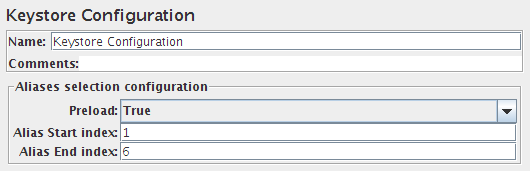
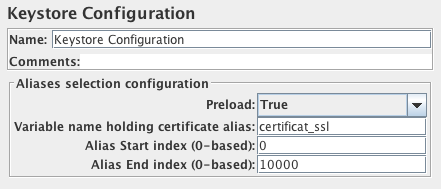
Bug 54977 - Ability to choose the client alias for the cert key in JsseSslManager such that Mutual SSL auth testing can be made more flexible Bugzilla Id: 54977
git-svn-id: https://svn.apache.org/repos/asf/jmeter/trunk@1552423 13f79535-47bb-0310-9956-ffa450edef68

Changed region(s): [[0.0, 0.0292, 1.0, 0.9649]]

diff --git a/src/core/org/apache/jmeter/util/keystore/JmeterKeyStore.java b/src/core/org/apache/jmeter/util/keystore/JmeterKeyStore.java
@@ -26,7 +26,11 @@ import java.security.cert.Certificate;
 import java.security.cert.X509Certificate;
 import java.util.ArrayList;
 import java.util.Enumeration;
+import java.util.HashMap;
+import java.util.Map;
 
+import org.apache.commons.lang3.StringUtils;
+import org.apache.jmeter.threads.JMeterContextService;
 import org.apache.jorphan.logging.LoggingManager;
 import org.apache.log.Logger;
 
@@ -41,21 +45,24 @@ public final class JmeterKeyStore {
     private final KeyStore store;
     private final int startIndex;
     private final int endIndex;
+    private String clientCertAliasVarName;
 
-    private X509Certificate[][] certChains;
-    private PrivateKey[] keys;
     private String[] names = new String[0]; // default empty array to prevent NPEs
+    private Map<String, PrivateKey> privateKeyByAlias = new HashMap<String, PrivateKey>();
+    private Map<String, X509Certificate[]> certsByAlias = new HashMap<String, X509Certificate[]>();
 
     //@GuardedBy("this")
     private int last_user;
 
-    private JmeterKeyStore(String type, int startIndex, int endIndex) throws Exception {
+
+    private JmeterKeyStore(String type, int startIndex, int endIndex, String clientCertAliasVarName) throws Exception {
         if (startIndex < 0 || endIndex < 0 || endIndex < startIndex) {
             throw new IllegalArgumentException("Invalid index(es). Start="+startIndex+", end="+endIndex);
         }
         this.store = KeyStore.getInstance(type);
         this.startIndex = startIndex;
         this.endIndex = endIndex;
+        this.clientCertAliasVarName = clientCertAliasVarName;
     }
 
     /**
@@ -66,9 +73,9 @@ public final class JmeterKeyStore {
         store.load(is, pw);
     
         ArrayList<String> v_names = new ArrayList<String>();
-        ArrayList<PrivateKey> v_keys = new ArrayList<PrivateKey>();
-        ArrayList<X509Certificate[]> v_certChains = new ArrayList<X509Certificate[]>();
-    
+        this.privateKeyByAlias = new HashMap<String, PrivateKey>();
+        this.certsByAlias = new HashMap<String, X509Certificate[]>();
+
         if (null != is){ // No point checking an empty keystore
             PrivateKey _key = null;
             int index = 0;
@@ -86,12 +93,13 @@ public final class JmeterKeyStore {
                             throw new Exception("No certificate chain found for alias: " + alias);
                         }
                         v_names.add(alias);
-                        v_keys.add(_key);
                         X509Certificate[] x509certs = new X509Certificate[chain.length];
                         for (int i = 0; i < x509certs.length; i++) {
                             x509certs[i] = (X509Certificate)chain[i];
                         }
-                        v_certChains.add(x509certs);
+
+                        privateKeyByAlias.put(alias, _key);
+                        certsByAlias.put(alias, x509certs);
                     }
                     index++;
                 }
@@ -101,23 +109,15 @@ public final class JmeterKeyStore {
                 throw new Exception("No key(s) found");
             }
             if (index <= endIndex-startIndex) {
-                LOG.warn("Did not find all requested aliases. Start="+startIndex+", end="+endIndex+", found="+v_certChains.size());
+                LOG.warn("Did not find all requested aliases. Start="+startIndex
+                        +", end="+endIndex+", found="+certsByAlias.size());
             }
         }
     
         /*
          * Note: if is == null, the arrays will be empty
          */
-        int v_size = v_names.size();
-    
-        this.names = new String[v_size];
-        this.names = v_names.toArray(names);
-    
-        this.keys = new PrivateKey[v_size];
-        this.keys = v_keys.toArray(keys);
-    
-        this.certChains = new X509Certificate[v_size][];
-        this.certChains = v_certChains.toArray(certChains);
+        this.names = v_names.toArray(new String[v_names.size()]);
     }
 
 
@@ -125,12 +125,12 @@ public final class JmeterKeyStore {
      * Get the ordered certificate chain for a specific alias.
      */
     public X509Certificate[] getCertificateChain(String alias) {
-        int entry = findAlias(alias);
-        if (entry >=0) {
-            return this.certChains[entry];
+        X509Certificate[] result = this.certsByAlias.get(alias);
+        if(result != null) {
+            return result;
         }
         // API expects null not empty array, see http://docs.oracle.com/javase/6/docs/api/javax/net/ssl/X509KeyManager.html
-        return null;
+        throw new IllegalArgumentException("No certificate found for alias:'"+alias+"'");
     }
 
     /**
@@ -138,6 +138,15 @@ public final class JmeterKeyStore {
      * @return the next or only alias.
      */
     public String getAlias() {
+        if(!StringUtils.isEmpty(clientCertAliasVarName)) {
+            // We return even if result is null
+            String aliasName = JMeterContextService.getContext().getVariables().get(clientCertAliasVarName);
+            if(StringUtils.isEmpty(aliasName)) {
+                LOG.error("No var called '"+clientCertAliasVarName+"' found");
+                throw new IllegalArgumentException("No var called '"+clientCertAliasVarName+"' found");
+            }
+            return aliasName;
+        }
         int length = this.names.length;
         if (length == 0) { // i.e. is == null
             return null;
@@ -164,11 +173,11 @@ public final class JmeterKeyStore {
      * Return the private Key for a specific alias
      */
     public PrivateKey getPrivateKey(String alias) {
-        int entry = findAlias(alias);
-        if (entry >=0) {
-            return this.keys[entry];
+        PrivateKey pk = this.privateKeyByAlias.get(alias);
+        if(pk != null) {
+            return pk;
         }
-        return null;
+        throw new IllegalArgumentException("No PrivateKey found for alias:'"+alias+"'");
     }
 
     /**
@@ -176,11 +185,12 @@ public final class JmeterKeyStore {
      * @param type store type (e.g. JKS)
      * @param startIndex first index (from 0)
      * @param endIndex last index (to count -1)
+     * @param clientCertAliasVarName 
      * @return the keystore
      * @throws Exception
      */
-    public static JmeterKeyStore getInstance(String type, int startIndex, int endIndex) throws Exception {
-        return new JmeterKeyStore(type, startIndex, endIndex);
+    public static JmeterKeyStore getInstance(String type, int startIndex, int endIndex, String clientCertAliasVarName) throws Exception {
+        return new JmeterKeyStore(type, startIndex, endIndex, clientCertAliasVarName);
     }
 
     /**
@@ -190,16 +200,7 @@ public final class JmeterKeyStore {
      * @throws Exception
      */
     public static JmeterKeyStore getInstance(String type) throws Exception {
-        return new JmeterKeyStore(type, 0, 0);
-    }
-    
-    private int findAlias(String alias) {
-        for(int i = 0; i < names.length; i++) {
-            if (alias.equals(names[i])){
-                return i;
-            }
-        }
-        return -1;
+        return getInstance(type, 0, 0, null);
     }
 
     /**

diff --git a/src/core/org/apache/jmeter/util/SSLManager.java b/src/core/org/apache/jmeter/util/SSLManager.java
@@ -81,6 +81,8 @@ public abstract class SSLManager {
 
     private int keystoreAliasEndIndex;
 
+    private String clientCertAliasVarName;
+
     /**
      * Resets the SSLManager so that we can create a new one with a new keystore
      */
@@ -104,14 +106,14 @@ public abstract class SSLManager {
      * not set, this method will prompt you to enter it. Unfortunately, there is
      * no PasswordEntryField available from JOptionPane.
      */
-    protected JmeterKeyStore getKeyStore() {
+    protected synchronized JmeterKeyStore getKeyStore() {
         if (null == this.keyStore) {
             String fileName = System.getProperty(JAVAX_NET_SSL_KEY_STORE,""); // empty if not provided
             String fileType = System.getProperty(JAVAX_NET_SSL_KEY_STORE_TYPE, // use the system property to determine the type
                     fileName.toLowerCase(Locale.ENGLISH).endsWith(".p12") ? PKCS12 : "JKS"); // otherwise use the name
             log.info("JmeterKeyStore Location: " + fileName + " type " + fileType);
             try {
-                this.keyStore = JmeterKeyStore.getInstance(fileType, keystoreAliasStartIndex, keystoreAliasEndIndex);
+                this.keyStore = JmeterKeyStore.getInstance(fileType, keystoreAliasStartIndex, keystoreAliasEndIndex, clientCertAliasVarName);
                 log.info("KeyStore created OK");
             } catch (Exception e) {
                 this.keyStore = null;
@@ -275,10 +277,12 @@ public abstract class SSLManager {
      * @param preload 
      * @param startIndex 
      * @param endIndex 
+     * @param clientCertAliasVarName 
      */
-    public void configureKeystore(boolean preload, int startIndex, int endIndex) {
+    public void configureKeystore(boolean preload, int startIndex, int endIndex, String clientCertAliasVarName) {
         this.keystoreAliasStartIndex = startIndex;
         this.keystoreAliasEndIndex = endIndex;
+        this.clientCertAliasVarName = clientCertAliasVarName;
         if(preload) {
             keyStore = getKeyStore();
         }

diff --git a/src/components/org/apache/jmeter/config/KeystoreConfig.java b/src/components/org/apache/jmeter/config/KeystoreConfig.java
@@ -41,6 +41,7 @@ public class KeystoreConfig extends ConfigTestElement implements TestBean, TestS
     private String startIndex;
     private String endIndex;
     private String preload;
+    private String clientCertAliasVarName;
     
     public KeystoreConfig() {
         super();
@@ -90,11 +91,13 @@ public class KeystoreConfig extends ConfigTestElement implements TestBean, TestS
             throw new JMeterStopTestException("Keystore Config error : Alias start index must be lower than Alias end index");
         }
         log.info("Configuring Keystore with (preload:"+preload+", startIndex:"+
-                startIndexAsInt+", endIndex:"+endIndexAsInt+")");
+                startIndexAsInt+", endIndex:"+endIndexAsInt+
+                ", clientCertAliasVarName:'" + clientCertAliasVarName +"')");
 
         SSLManager.getInstance().configureKeystore(Boolean.parseBoolean(preload),
                 startIndexAsInt, 
-                endIndexAsInt);
+                endIndexAsInt,
+                clientCertAliasVarName);
     }
 
     /**
@@ -137,5 +140,19 @@ public class KeystoreConfig extends ConfigTestElement implements TestBean, TestS
      */
     public void setPreload(String preload) {
         this.preload = preload;
+    }
+
+    /**
+     * @return the clientCertAliasVarName
+     */
+    public String getClientCertAliasVarName() {
+        return clientCertAliasVarName;
+    }
+
+    /**
+     * @param clientCertAliasVarName the clientCertAliasVarName to set
+     */
+    public void setClientCertAliasVarName(String clientCertAliasVarName) {
+        this.clientCertAliasVarName = clientCertAliasVarName;
     }
 }

diff --git a/src/components/org/apache/jmeter/config/KeystoreConfigBeanInfo.java b/src/components/org/apache/jmeter/config/KeystoreConfigBeanInfo.java
@@ -30,6 +30,7 @@ public class KeystoreConfigBeanInfo extends BeanInfoSupport {
     private static final String ALIASES_GROUP = "aliases";
     private static final String ALIAS_END_INDEX = "endIndex";
     private static final String ALIAS_START_INDEX = "startIndex";
+    private static final String CLIENT_CERT_ALIAS_VAR_NAME = "clientCertAliasVarName";
     private static final String PRELOAD = "preload";
 
     /**
@@ -39,7 +40,7 @@ public class KeystoreConfigBeanInfo extends BeanInfoSupport {
         super(KeystoreConfig.class);
 
         createPropertyGroup(ALIASES_GROUP, new String[] { 
-                PRELOAD, ALIAS_START_INDEX, ALIAS_END_INDEX });
+                PRELOAD, CLIENT_CERT_ALIAS_VAR_NAME, ALIAS_START_INDEX, ALIAS_END_INDEX });
 
         PropertyDescriptor p = property(PRELOAD);
         p.setValue(NOT_UNDEFINED, Boolean.TRUE);
@@ -47,6 +48,10 @@ public class KeystoreConfigBeanInfo extends BeanInfoSupport {
         p.setValue(NOT_EXPRESSION, Boolean.TRUE);
         p.setValue(NOT_OTHER, Boolean.TRUE);
         p.setValue(TAGS, new String[]{"True", "False"}); // $NON-NLS-1$ $NON-NLS-2$
+
+        p = property(CLIENT_CERT_ALIAS_VAR_NAME);
+        p.setValue(NOT_UNDEFINED, Boolean.TRUE);
+        p.setValue(DEFAULT, ""); // $NON-NLS-1$
 
         p = property(ALIAS_START_INDEX);
         p.setValue(NOT_UNDEFINED, Boolean.TRUE);

diff --git a/src/core/org/apache/jmeter/util/JsseSSLManager.java b/src/core/org/apache/jmeter/util/JsseSSLManager.java
@@ -389,10 +389,12 @@ public class JsseSSLManager extends SSLManager {
          */
         @Override
         public String chooseClientAlias(String[] keyType, Principal[] issuers, Socket socket) {
-            log.debug("keyType: " + keyType[0]);
+            if(log.isDebugEnabled()) {
+                log.debug("keyType: " + keyType[0]);
+            }
             String alias = this.store.getAlias();
-            if (alias == null || alias.length() == 0) {
-                log.debug("ClientAlias not found.");
+            if(log.isDebugEnabled()) {
+                log.debug("Client alias:'"+alias+"'");
             }
             return alias;
         }
